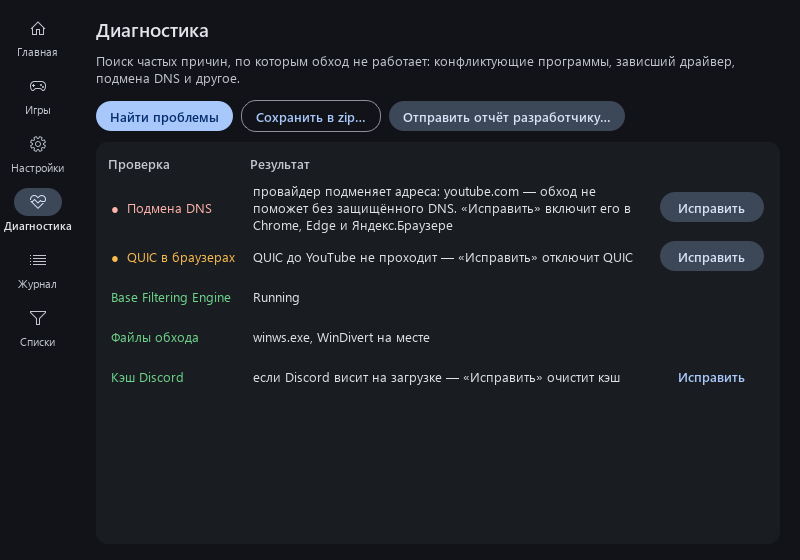
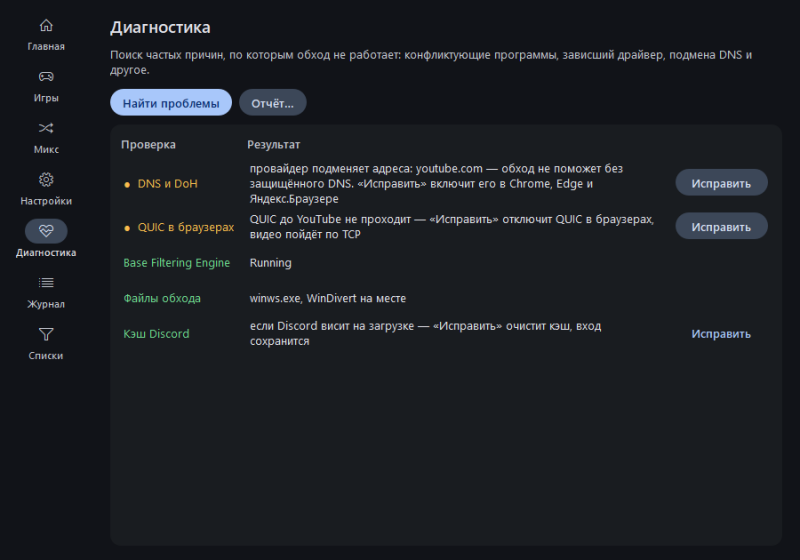
Refresh README and guide screenshots for 2.6.0; docs_shots tool; guide: mix section, report menu, current diagnostics rows
Screenshots are 900x630 captures scaled to 800x560 as before, but taken from the shipped UI with demo data: the checks card, the mix page and the current diagnostics labels were missing. tools/docs_shots.py regenerates them; guide and troubleshooting now match the buttons that exist (report menu, right-click game actions).

diff --git a/tools/docs_shots.py b/tools/docs_shots.py
@@ -1,0 +1,219 @@
+"""Скриншоты для docs/img и README: страницы окна в реальном рендере Windows.
+
+Снимок 900x630 уменьшается до 800x560 — так же сделаны прежние картинки в README и руководстве.
+Данные демонстрационные (временная папка данных), живая установка и обход не затрагиваются, winws не запускается.
+
+    python tools/docs_shots.py
+
+Картинки перезаписываются в docs/img: main-on, autopick, settings, games, diagnostics, log.
+"""
+import json
+import os
+import sys
+import tempfile
+import time
+from pathlib import Path
+
+ROOT = Path(__file__).resolve().parent.parent
+sys.path.insert(0, str(ROOT))
+os.environ.pop("QT_QPA_PLATFORM", None)  # нужен настоящий windows-плагин: offscreen не видит системные шрифты
+
+from PySide6.QtCore import Qt  # noqa: E402
+from PySide6.QtWidgets import QApplication, QLayout, QWidget  # noqa: E402
+
+from app import __version__, paths, settings  # noqa: E402
+
+OUT = ROOT / "docs" / "img"
+SHOT = (900, 630)  # реальный размер окна при съёмке
+SIZE = (800, 560)  # размер картинок в README и руководстве (900x630 = 10:7)
+
+# демонстрационные игры: две записи, как в прежних картинках (Wardogs играете, Deadlock ждёт)
+GAMES = {
+    "wardogs.exe": {"ips": [f"203.0.113.{i}" for i in range(1, 111)], "ping_ms": 38, "active": True, "path": ""},
+    "deadlock.exe": {"ips": [f"198.51.100.{i}" for i in range(1, 57)], "ping_ms": None, "active": False, "path": ""},
+}
+LOGS = (
+    f"start ZapretAuto {__version__}, Windows 10.0.19045",
+    "запущено: ALT8",
+    "проверка доступа: Discord ✓ YouTube ✓ Голос Discord ✓",
+    "найдена игра: Wardogs",
+    "найдена игра: Deadlock",
+    "IP-список обновлён: 186 подсетей",
+)
+# диагностика: две находки с кнопкой «Исправить» и три спокойных строки — как в руководстве
+DIAG = (
+    {"label": "DNS и DoH", "level": "warn", "fix": "dns_repair",
+     "detail": "провайдер подменяет адреса: youtube.com — обход не поможет без защищённого DNS. «Исправить» "
+               "включит его в Chrome, Edge и Яндекс.Браузере"},
+    {"label": "QUIC в браузерах", "level": "warn", "fix": "disable_quic",
+     "detail": "QUIC до YouTube не проходит — «Исправить» отключит QUIC в браузерах, видео пойдёт по TCP"},
+    {"label": "Base Filtering Engine", "level": "ok", "detail": "Running"},
+    {"label": "Файлы обхода", "level": "ok", "detail": "winws.exe, WinDivert на месте"},
+    {"label": "Кэш Discord", "level": "ok", "fix": "discord_cache",
+     "detail": "если Discord висит на загрузке — «Исправить» очистит кэш, вход сохранится"},
+)
+
+
+class _Runner:
+    """Состояние обхода без winws: снимкам не нужен ни запуск, ни остановка."""
+
+    def __init__(self, running: bool = False) -> None:
+        self.running = running
+
+    def start(self, *args, **kwargs) -> None:
+        self.running = True
+
+    def stop(self) -> None:
+        self.running = False
+
+
+class _Watcher:
+    """Найденные игры: карточка на главной и таблица на странице «Игры»."""
+
+    def games(self) -> dict:
+        return GAMES
+
+
+def _stats() -> list[dict]:
+    """Неделя событий для статистики в журнале: работа, проверки, починки."""
+    now = time.time()
+    events: list[dict] = []
+    for day in range(1, 8):
+        base = now - day * 86400
+        events.append({"t": base - 5 * 3600, "k": "start"})
+        events.append({"t": base - 2.5 * 3600, "k": "stop"})
+        for i in range(40):
+            events.append({"t": base - 4 * 3600 + i * 300, "k": "check", "ok": not (day == 3 and i in (3, 7))})
+    events += [
+        {"t": now - 3 * 86400, "k": "repick"},
+        {"t": now - 1 * 86400, "k": "repick"},
+        {"t": now - 4 * 3600, "k": "switch", "to": "ALT8"},
+        {"t": now - 6 * 86400, "k": "ipset"},
+        {"t": now - 2 * 86400, "k": "crash"},
+    ]
+    return sorted(events, key=lambda e: e["t"])
+
+
+def _prepare_data() -> None:
+    """Демонстрационные настройки, статистика и журнал во временной папке."""
+    tmp = Path(tempfile.mkdtemp(prefix="zapretauto-docs-"))
+    (tmp / "lists").mkdir()
+    (tmp / "presets").mkdir()
+    paths.DATA, paths.LISTS, paths.PRESETS = tmp, tmp / "lists", tmp / "presets"
+    settings._cache = None
+    settings.save_settings(
+        strategy={"base": "ALT8", "picks": {}},
+        auto_choice={"base": "ALT9", "picks": {}},  # подбор остановился на ALT9, стратегию выбрали вручную
+        game_watch=True,
+        game_capture=True,
+        show_advanced=True,
+        ipset_updated=time.time(),
+    )
+    (tmp / "stats.json").write_text(json.dumps(_stats()), encoding="utf-8")
+
+
+def _activate(page: QWidget) -> None:
+    """Пересчитать раскладку страницы: без этого подпись, которой текст задали до показа, остаётся высотой в строку."""
+    lay = page.layout()
+    if isinstance(lay, QLayout):
+        lay.activate()
+
+
+def _settle(window: QWidget, page: QWidget, *labels: QWidget) -> None:
+    """Дать раскладке пересчитать высоту подписей с текстом, заданным пока страница была не на виду."""
+    app = QApplication.instance()
+    for label in labels:
+        label.updateGeometry()
+    if app is not None:
+        app.processEvents()
+    _activate(page)
+    if app is not None:
+        app.processEvents()
+
+
+def _save(window: QWidget, name: str) -> None:
+    img = window.grab()
+    if (img.width(), img.height()) != SIZE:
+        img = img.scaled(*SIZE, Qt.AspectRatioMode.IgnoreAspectRatio, Qt.TransformationMode.SmoothTransformation)
+    img.save(str(OUT / f"{name}.png"))
+    print(f"{name}: {img.width()}x{img.height()}, {(OUT / f'{name}.png').stat().st_size} B")
+
+
+def main() -> int:
+    _prepare_data()
+    app = QApplication.instance() or QApplication([])
+    from app.gui.window import MainWindow
+
+    window = MainWindow()
+    window.setAttribute(Qt.WidgetAttribute.WA_DontShowOnScreen, True)  # настоящий рендер, окно не мелькает
+    window.resize(*SHOT)
+    window.show()
+    app.processEvents()
+    window._timer.stop()  # снимки не должны ждать фоновых проверок и обновлений
+    window.runner = _Runner(True)
+    window.watcher = _Watcher()
+
+    # главная: обход включён, все сервисы работают, две игры найдены
+    window.refresh()
+    window.set_chips({"Discord": True, "YouTube": True, "Голос Discord": True})
+    window.fill_games()
+    for line in LOGS:
+        window.log(line)
+    window.tabs.setCurrentIndex(0)
+    _settle(window, window.tabs.widget(0), window.lbl_recent)
+    _save(window, "main-on")
+
+    # подбор стратегии: идёт проверка, часть сервисов ещё не открывается
+    window.busy, window.busy_text = True, "Подбираю стратегию…"
+    window._cancellable = True
+    window.refresh()
+    window.substatus.setText("Проверено стратегий: 7 из 21, осталось около 2 мин")
+    window.set_chips({"Discord": True, "YouTube": True, "Голос Discord": False})
+    window.progress.setRange(0, 25)
+    window.progress.setValue(7)
+    app.processEvents()
+    _save(window, "autopick")
+
+    window.busy, window.busy_text, window._cancellable = False, "", False
+    window.refresh()
+    app.processEvents()
+
+    # игры: таблица с двумя найденными играми, строка играющей выбрана
+    window.tabs.setCurrentIndex(1)
+    window.fill_games()
+    app.processEvents()
+    window.table.selectRow(0)
+    app.processEvents()
+    _save(window, "games")
+
+    # настройки: основное и дополнительно, сверху страницы
+    window.tabs.setCurrentIndex(3)
+    window.set_advanced(True, save=False)
+    _activate(window.tabs.widget(3))
+    app.processEvents()
+    _save(window, "settings")
+
+    # диагностика: две находки с «Исправить» и спокойные проверки
+    window.tabs.setCurrentIndex(4)
+    window.on_diag_done([dict(r) for r in DIAG])
+    _activate(window.tabs.widget(4))
+    app.processEvents()
+    _save(window, "diagnostics")
+
+    # журнал: статистика за неделю и записи
+    window.tabs.setCurrentIndex(5)
+    window.fill_stats()
+    _settle(window, window.tabs.widget(5), window.lbl_stats)
+    _save(window, "log")
+
+    window.tray.hide()
+    window._timer.stop()
+    window.close()
+    window.deleteLater()
+    app.processEvents()
+    print("готово:", OUT)
+    return 0
+
+
+if __name__ == "__main__":
+    raise SystemExit(main())

diff --git a/docs/guide.md b/docs/guide.md
@@ -1,7 +1,7 @@
 # Руководство пользователя
 
-Слева - разделы программы: **Главная**, **Игры**, **Настройки**, **Диагностика**, **Журнал** и **Списки**
-(виден, когда в настройках открыто «Дополнительно»). Переключаться можно и клавишами Ctrl+1 … Ctrl+6.
+Слева - разделы программы: **Главная**, **Игры**, **Микс**, **Настройки**, **Диагностика** и **Журнал**,
+а **Списки** - когда в настройках открыто «Дополнительно». Переключаться можно и клавишами Ctrl+1 … Ctrl+7.
 
 ## Главная
 
@@ -16,12 +16,11 @@
 | **Сайт не открывается…** | Введите адрес сайта. Программа проверит его и попробует два пути: включить для него обход (сайт заблокирован) или, наоборот, исключить из обхода (сайт ломается из-за обхода - так бывает с сайтами на Cloudflare, входом Microsoft, лаунчерами). Оставит то, что помогло, и скажет об этом. Если сайт заблокирован по IP - сообщит, что нужен VPN; если провайдер подменяет DNS - подскажет, как включить защищённый DNS. |
 | **Программа не работает…** | Программа (Spotify, лаунчер, мод игры) работает без обхода, а с обходом - нет? Выберите её exe: обход перестанет трогать её серверы (адреса соберутся сами, когда программа к ним обратится; включится слежение за играми). Отменить - «Списки» → «Программы, которые обход не трогает». |
 | **Стратегия** | «Авто (результат подбора)»: то, что выбрал последний подбор. Можно выбрать любую стратегию вручную. Ниже - ваш провайдер и сколько отчётов о нём в общей базе. Программа помнит стратегию для каждого провайдера: перешли с домашнего интернета на мобильный и обратно - включится та, что работала в этой сети, без нового подбора. |
-| **Подобрать стратегию** | Заново подбирает стратегию (2-4 минуты). Во время подбора есть «Отменить подбор»: обход вернётся к прежней стратегии. |
+| **Подобрать заново** | Заново подбирает стратегию (2-4 минуты). Во время подбора есть «Отменить подбор»: обход вернётся к прежней стратегии. |
 | **Собрать микс вручную…** | Открывает страницу «Микс»: для каждой группы целей (Discord, YouTube, QUIC, игры, Telegram…) можно взять профиль из другой стратегии или своего пресета. Результат сохраняется пресетом «свой: …»: он появляется в списке, его можно открыть и поправить, обновления его не трогают. |
 
 Плашки проверки доступа настраиваются в **«Настройках»**, карточка **«Проверки»**. Встроенные можно выключить, а свои добавить, выбрав тип: «Сайт» (достаточно домена, например `example.com`), «Сервер по TCP» или «Сервер по UDP (STUN)» (IP или имя и порт, например `192.168.1.10` и `27015`). Изменения применяются сразу, кнопки «Сохранить» нет: галочка или новая строка сразу становятся плашкой и проверяются вместе с остальными. Если плашек много, они переносятся на следующую строку.
-| **Стабильность за неделю** | Столбик на каждый день: сколько раз обход сбоил (неудачные фоновые проверки, падения, повторные подборы). Зелёная полоска - день без сбоев, жёлтый и красный столбики - были проблемы, серая - программа в тот день не работала. Наведите - увидите цифры. Если столбики растут несколько дней подряд, стоит нажать «Подобрать заново». |
-| **Последние события** | Четыре последних записи журнала. |
+| **Последние события** | Последние записи журнала, до восьми. |
 
 ![Подбор стратегии](img/autopick.png)
 
@@ -74,12 +73,12 @@
 и галочка **Обход** - для серверов этой игры.
 
 - **Добавить игру…** - указать exe игры вручную, если она не нашлась сама.
-- **Не игра** - больше не считать выбранную программу игрой и убрать её адреса из обхода.
+- **Не игра** (правая кнопка по строке игры) - больше не считать выбранную программу игрой и убрать её адреса из обхода.
 - **Обход** (галочка в строке игры): снимите, если с обходом игра работает хуже (высокий пинг, не пускает
   на сервер): игра останется в списке, но её серверы обход трогать не будет. Вернуть - поставить галочку.
   То же самое - в меню трея («Игры»). Полностью выключить перехват для всех игр - настройка
   «Перехватывать подключения игр».
-- **Сбросить адреса** - убрать собранные адреса выбранной игры (если после добавления ей стало хуже).
+- **Сбросить адреса** (правая кнопка по строке игры) - убрать собранные адреса выбранной игры (если после добавления ей стало хуже).
 - **Поделиться адресами…** - отправить найденные серверы игр в общую базу (откроется страница GitHub,
   нужен аккаунт). Отправляются только адреса серверов игр, без вашего IP. Адрес попадает в базу, когда его
   прислали хотя бы двое разных людей; программа загружает базу при запуске
@@ -111,14 +110,15 @@
 | Конфликтующие службы | GoodbyeDPI, Killer Network, SmartByte и др. мешают обходу - удалите/отключите. |
 | Служба zapret | Запущен другой zapret - «Исправить» остановит его. |
 | AdGuard | Может ломать Discord - отключите фильтрацию трафика или добавьте Discord в исключения AdGuard. |
-| Остаточный WinDivert | Драйвер завис без winws - «Исправить». |
-| Secure DNS (DoH) | Провайдер может подменять DNS. Включите защищённый DNS в Windows или браузере. |
-| Подмена DNS | Провайдер отдаёт фальшивые адреса или отвечает «такого сайта нет» для заблокированных сайтов - обход не поможет, пока не включён защищённый DNS (DoH). «Исправить» включит его в Chrome, Edge и Яндекс.Браузере. |
+| WinDivert | Служба отключена, помечена на удаление или драйвер завис без winws.exe - обход не запустится. «Исправить» починит или переустановит службу. |
+| DNS и DoH | Провайдер подменяет DNS или отдаёт фальшивые адреса, либо защищённый DNS выключен - обход не поможет. «Исправить» включит DoH в Chrome, Edge и Яндекс.Браузере. |
 | VPN | Показывает, как VPN влияет на обход. |
 | QUIC в браузерах | Программа пробует открыть YouTube по HTTP/3 (QUIC). Если не проходит (ТСПУ режет QUIC с 2026 года), видео в браузере стартует медленно - «Исправить» отключит QUIC в браузерах; перезапустите браузер. |
 | Smart App Control | Только Windows 11: если «Интеллектуальное управление приложениями» включено, Windows блокирует неподписанный winws.exe и обход не запускается. Программа покажет, где его отключить. |
 | Адреса Flowseal в hosts | Если провайдер подменяет DNS для Discord, браузерный защищённый DNS приложению Discord не помогает. «Исправить» запишет в системный hosts правильные адреса Discord, Telegram и GitHub (список Flowseal) отдельным блоком; остальные строки hosts не трогаются. «Убрать» удаляет этот блок; при удалении программы он убирается сам. |
 | Кэш Discord | Если Discord висит на загрузке или проверке обновлений - «Исправить» закроет Discord и очистит его кэш (вход сохраняется). |
+
+**«Отчёт…»** - меню из двух пунктов.
 
 **Отправить отчёт разработчику…** - не помогло? Откроется страница GitHub с готовым отчётом: версии,
 найденные проблемы и конец журнала; нажмите «Create». Имя пользователя и IP-адреса скрыты. То же есть

diff --git a/AGENTS.md b/AGENTS.md
@@ -13,7 +13,7 @@ Windows GUI wrapper over Flowseal/zapret-discord-youtube (winws.exe + WinDivert)
 - **Ручной микс.** Группы берутся по точному ключу `Profile.group` (proto:ports:lists+l7): если у пресета другой набор портов/фильтров, замена для этой группы недоступна, только «как в основе».
 - **Проверки.** `settings["checks"] = {"hidden": [label], "custom": [{"name", "url"}]}`; url канонический (`https://…`, `tcp://host:port`, `stun://host:port`), имя выводится из адреса (домен или `host:port`). `ChecksBox` сохраняет сам (сигнал `changed`, без кнопки «Сохранить»): галочки применяются даже при ошибке в строке, а недописанный адрес оставляет своё прошлое значение (`_good`) и не эмитит тот же конфиг второй раз (`_saved`). `on_checks_saved` запускает `check_access()` не сразу, а через `_checks_later` (1200 мс, одна проверка на серию правок), сам `check_access` не идёт вторым прогоном: ставит `_check_pending`. `tester.checks_config()` читает настройки устойчиво к мусору и даёт своим целям ключи `custom:<имя>` (не перекрывают встроенные). `tester.valid_target()` проверяет порт 1..65535.
 - **Дизайн.** Общий QSS: `QComboBox QAbstractItemView` — скруглённая панель, рамка, элементы; `widgets.fit_combo()` ограничивает списки 12 строками с прокруткой (стратегии, DNS, списки, микс); `fit_font()` уменьшает подпись рейла, рейл 104 px, кнопка 96×54. Плашки проверок лежат в `widgets.FlowLayout`: при нехватке ширины переносятся на новую строку, а не уезжают за карточку (число своих адресов не ограничено). Кнопки сохранения/перепроверки — вне прокрутки. **Компоновка главной, списков и настроек не переделывается**: пользователь откатил эксперименты 19.11, вернув шапку (питание слева, статус и «?», столбец действий справа, плашки отдельной строкой), «Обновить IP-список» на странице «Списки» и разделы настроек без ссылок-переходов. Не предлагать их снова без явной просьбы.
-- **Дизайн-правила.** `docs/DESIGN.md`: роли типографики, отступы, компоненты, структура страницы, пустые состояния, список известных послаблений. Скриншоты всех страниц в реальном рендере Windows: `python tools/screenshots.py` (окно скрыто через `WA_DontShowOnScreen`, настройки копируются во временную папку, результат в `build/screenshots`); глифы иконок проверяются там же через `--icons E8B1`. Заголовки секций - только `QLabel#section` или `QPushButton#section` (9pt, primary, padding 12/0/6/0), других видов у подписей групп нет. Страница с динамическими строками обязана ставить `body.layout().setSizeConstraint(SetMinimumSize)`, иначе `QScrollArea` сжимает тело ниже минимума и строки наезжают (так был сломан «Микс»).
+- **Дизайн-правила.** `docs/DESIGN.md`: роли типографики, отступы, компоненты, структура страницы, пустые состояния, список известных послаблений. Скриншоты всех страниц в реальном рендере Windows: `python tools/screenshots.py` (окно скрыто через `WA_DontShowOnScreen`, настройки копируются во временную папку, результат в `build/screenshots`); глифы иконок проверяются там же через `--icons E8B1`. Картинки для README и руководства: `python tools/docs_shots.py` — те же страницы на демонстрационных данных, снимок 900x630 уменьшается до 800x560 и пишется в `docs/img` (main-on, autopick, settings, games, diagnostics, log). Заголовки секций - только `QLabel#section` или `QPushButton#section` (9pt, primary, padding 12/0/6/0), других видов у подписей групп нет. Страница с динамическими строками обязана ставить `body.layout().setSizeConstraint(SetMinimumSize)`, иначе `QScrollArea` сжимает тело ниже минимума и строки наезжают (так был сломан «Микс»).
 - **Telegram.** `tester.telegram_ws_alive()` проверяет `kws1/kws2.web.telegram.org` в Worker (не в GUI-потоке); `tester.telegram_hint()` выбирает совет: прокси при живом WS, VPN при мёртвом.
 - **Диагностика.** `diag._env()` — один вызов PowerShell (службы, timestamps, DoH), при неразобранном JSON падает на три отдельных; пустой `services` не кэшируется.
 - **Исправлено по ревью:** гонка `_stamp()` при удалении пресета, дедупликация имён, отказ импорта поверх существующего, атомарное сохранение микса, автосохранение проверок без сброса при переключении вкладок, сохранение микса во время подбора (`on_mix_saved` не трогает strategy=), статус «Сохранено» без обещания включить обход. Второй проход ревью (19.11, после переноса проверок в настройки): сброшенная группа микса не возвращается после переключения вкладок (`_picks = dict(picks or {})`), ошибка в строке проверок не отменяет галочки и не стирает прошлый адрес, проверка доступа одна на серию правок, удаление пресета чистит ссылки в `strategy` и `auto_choice` (`_preset_used`/`_without_preset`), удаление просит подтверждение, скрытая «Скорость YouTube» больше не тратит трафик, адрес без порта не превращается в строку с портом «host», плашки переносятся (`FlowLayout`), у «Микса» своя иконка (глиф E8B1), карточка проверок не обещает «сохранено», когда ничего не менялось.

diff --git a/docs/troubleshooting.md b/docs/troubleshooting.md
@@ -42,8 +42,8 @@
 
 - Включите **«Следить за играми»** и запустите игру **после** ZapretAuto.
 - Если игра уже была запущена - перезапустите её после уведомления «Добавлены IP игры».
-- Стало хуже, чем без обхода - раздел «Игры» → выберите игру → **«Сбросить адреса»** или **«Не игра»**.
-- Игра не появилась в списке - **«Добавить игру (exe)…»** и укажите exe.
+- Стало хуже, чем без обхода - раздел «Игры», правая кнопка по строке игры: **«Сбросить адреса»** или **«Не игра»**.
+- Игра не появилась в списке - **«Добавить игру…»** и укажите exe.
 
 ## Какой-то сайт перестал открываться после включения обхода
 
@@ -79,5 +79,5 @@ VPN гонит весь трафик, и у компьютера нет друг
 
 ## Ничего не помогло
 
-«Диагностика» → **«Отправить отчёт разработчику…»**: откроется страница GitHub с готовым отчётом,
+«Диагностика» → **«Отчёт…»** → **«Отправить отчёт разработчику…»**: откроется страница GitHub с готовым отчётом,
 останется нажать «Create». Если попросят подробности - «Сохранить в zip…» и приложите файл к issue.

diff --git a/CODEMAP.md b/CODEMAP.md
@@ -147,6 +147,11 @@ Generated by `python tools/codemap.py`; do not edit. Find a definition with grep
 ## tools/codemap.py: Generate CODEMAP.md: every module with its classes and functions, so a reader can pick what to open.
 - _names, _module, build
 
+## tools/docs_shots.py: Скриншоты для docs/img и README: страницы окна в реальном рендере Windows.
+- _stats, _prepare_data, _activate, _settle, _save, main
+- **_Runner**: __init__, start, stop
+- **_Watcher**: games
+
 ## tools/leakcheck.py: Stress the app's periodic operations and print RSS/handle/thread deltas per series.
 - snap, pump, series, worker_cycle, probe
 
